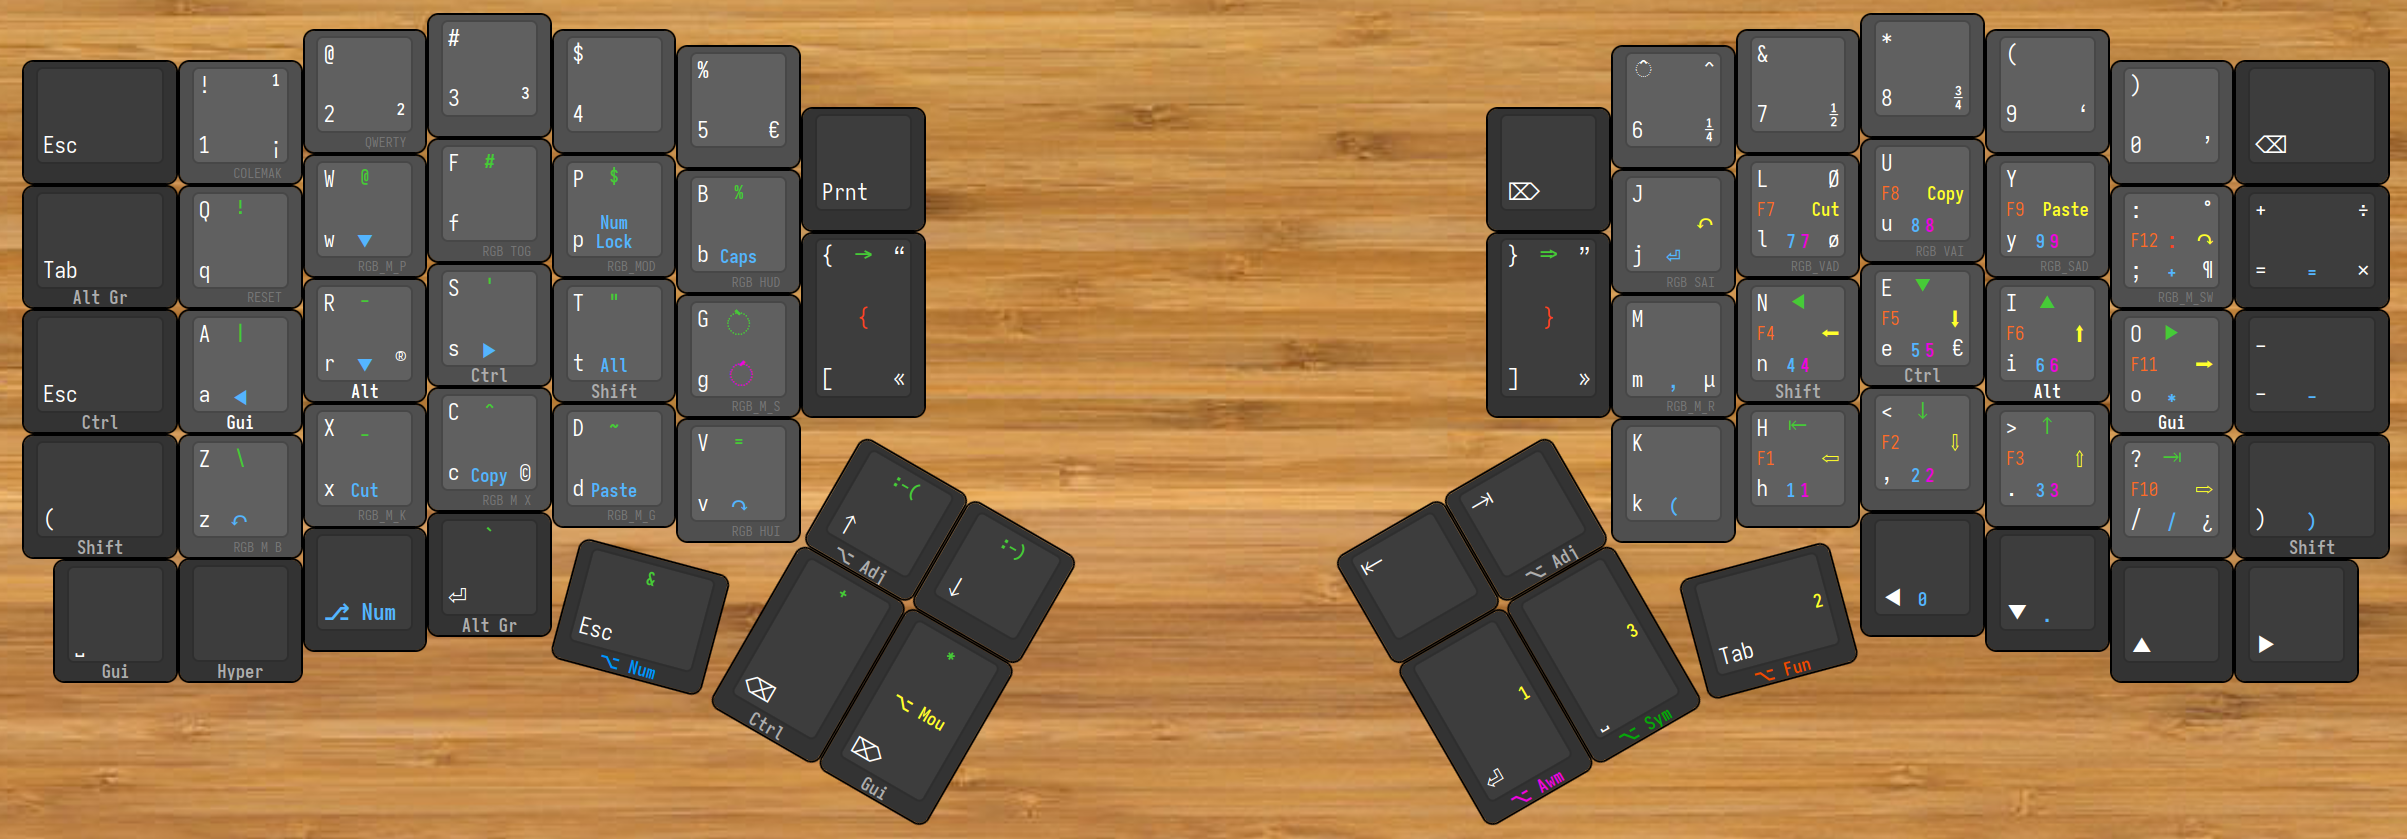
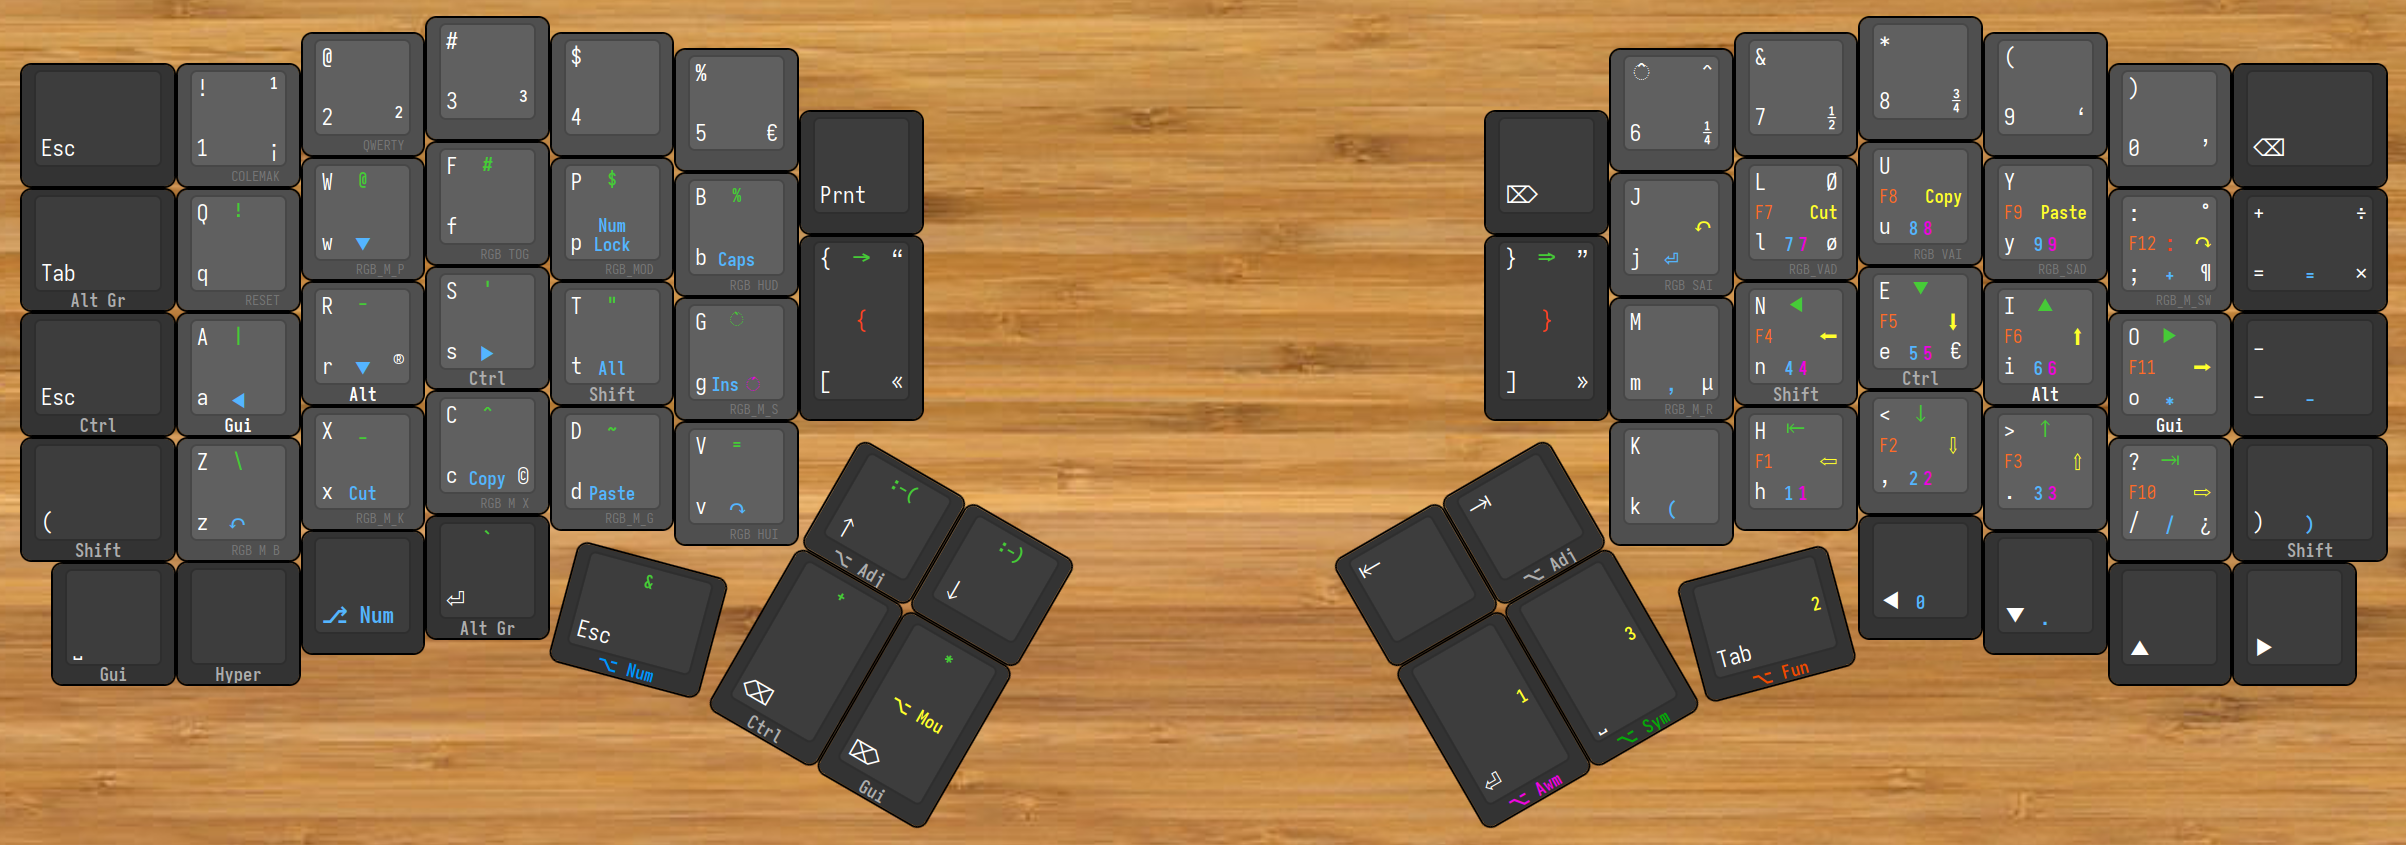
Aligned source code with layout map

diff --git a/keymap.c b/keymap.c
@@ -202,13 +202,13 @@ const uint16_t PROGMEM keymaps[][MATRIX_ROWS][MATRIX_COLS] = {
     //┌────────┬────────┬────────┬────────┬────────┬────────┐                                           ┌────────┬────────┬────────┬────────┬────────┬────────┐
        _______ ,_______ ,_______ ,_______ ,_______ ,_______ ,                                            _______ ,_______ ,_______ ,_______ ,_______ ,_______ ,
     //├────────┼────────┼────────┼────────┼────────┼────────┼────────┐                         ┌────────┼────────┼────────┼────────┼────────┼────────┼────────┤
-       _______ ,KC_EXLM ,KC_AT   ,KC_HASH ,KC_DLR  ,KC_PERC ,_______ ,                          _______ ,ASC_CIRC,KC_AMPR ,KC_ASTR ,KC_PLUS ,_______ ,_______ ,
+       _______ ,KC_EXLM ,KC_AT   ,KC_HASH ,KC_DLR  ,KC_PERC ,_______ ,                          _______ ,_______ ,_______ ,_______ ,_______ ,_______ ,_______ ,
     //├────────┼────────┼────────┼────────┼────────┼────────┼────────┤                         ├────────┼────────┼────────┼────────┼────────┼────────┼────────┤
-       _______ ,KC_PIPE ,KC_PMNS ,ASC_SQT ,ASC_DQT ,KC_GRV  ,ASC_SAR ,                          ASC_DAR ,KC_QUOT ,KC_LEFT ,KC_DOWN ,KC_UP   ,KC_RGHT ,_______ ,
+       _______ ,KC_PIPE ,KC_PMNS ,ASC_SQT ,ASC_DQT ,KC_GRV  ,ASC_SAR ,                          ASC_DAR ,_______ ,KC_LEFT ,KC_DOWN ,KC_UP   ,KC_RGHT ,_______ ,
     //├────────┼────────┼────────┼────────┼────────┼────────┼────────┼────────┐       ┌────────┼────────┼────────┼────────┼────────┼────────┼────────┼────────┤
-       _______ ,KC_BSLS ,KC_UNDS ,KC_COLN ,ASC_TILD,KC_EQL  ,ASC_SAD ,ASC_HAP ,        _______ ,_______ ,ASC_BKT ,KC_HOME ,KC_PGDN ,KC_PGUP ,KC_END  ,_______ ,
+       _______ ,KC_BSLS ,KC_UNDS ,ASC_CIRC,ASC_TILD,KC_EQL  ,ASC_SAD ,ASC_HAP ,        _______ ,_______ ,_______ ,KC_HOME ,KC_PGDN ,KC_PGUP ,KC_END  ,_______ ,
     //├────────┼────────┼────────┼────────┼────┬───┴────┬───┼────────┼────────┤       ├────────┼────────┼───┬────┴───┬────┼────────┼────────┼────────┼────────┤
-       _______ ,_______ ,_______ ,_______ ,     _______ ,    _______ ,_______ ,        _______ ,_______ ,    _______ ,     _______ ,_______ ,_______ ,_______
+       _______ ,_______ ,_______ ,ASC_BKT ,     KC_AMPR ,    KC_PLUS ,KC_ASTR ,        _______ ,_______ ,    _______ ,     _______ ,_______ ,_______ ,_______
     //└────────┴────────┴────────┴────────┘    └────────┘   └────────┴────────┘       └────────┴────────┘   └────────┘    └────────┴────────┴────────┴────────┘
   ),
 
@@ -247,11 +247,11 @@ const uint16_t PROGMEM keymaps[][MATRIX_ROWS][MATRIX_COLS] = {
     //┌────────┬────────┬────────┬────────┬────────┬────────┐                                           ┌────────┬────────┬────────┬────────┬────────┬────────┐
        _______ ,_______ ,_______ ,_______ ,_______ ,_______ ,                                            _______ ,_______ ,_______ ,_______ ,_______ ,_______ ,
     //├────────┼────────┼────────┼────────┼────────┼────────┼────────┐                         ┌────────┼────────┼────────┼────────┼────────┼────────┼────────┤
-       _______ ,_______ ,KC_UP   ,_______ ,KC_NLCK ,KC_CAPS ,_______ ,                          _______ ,_______ ,KC_AW7  ,KC_AW8  ,KC_AW9  ,_______ ,_______ ,
+       _______ ,_______ ,_______ ,_______ ,_______ ,_______ ,_______ ,                          _______ ,_______ ,KC_AW7  ,KC_AW8  ,KC_AW9  ,_______ ,_______ ,
     //├────────┼────────┼────────┼────────┼────────┼────────┼────────┤                         ├────────┼────────┼────────┼────────┼────────┼────────┼────────┤
-       _______ ,KC_LEFT ,KC_DOWN ,KC_RIGHT,U_ALL   ,KC_INS  ,_______ ,                          _______ ,_______ ,KC_AW4  ,KC_AW5  ,KC_AW6  ,_______ ,_______ ,
+       _______ ,_______ ,_______ ,_______ ,_______ ,KC_QUOT ,_______ ,                          _______ ,_______ ,KC_AW4  ,KC_AW5  ,KC_AW6  ,_______ ,_______ ,
     //├────────┼────────┼────────┼────────┼────────┼────────┼────────┼────────┐       ┌────────┼────────┼────────┼────────┼────────┼────────┼────────┼────────┤
-       _______ ,U_UND   ,U_CUT   ,U_CPY   ,U_PST   ,U_RDO   ,_______ ,_______ ,        _______ ,_______ ,_______ ,KC_AW1  ,KC_AW2  ,KC_AW3  ,_______ ,_______ ,
+       _______ ,_______ ,_______ ,_______ ,_______ ,_______ ,_______ ,_______ ,        _______ ,_______ ,_______ ,KC_AW1  ,KC_AW2  ,KC_AW3  ,_______ ,_______ ,
     //├────────┼────────┼────────┼────────┼────┬───┴────┬───┼────────┼────────┤       ├────────┼────────┼───┬────┴───┬────┼────────┼────────┼────────┼────────┤
        _______ ,_______ ,_______ ,_______ ,     _______ ,    _______ ,_______ ,        _______ ,_______ ,    _______ ,     _______ ,_______ ,_______ ,_______
     //└────────┴────────┴────────┴────────┘    └────────┘   └────────┴────────┘       └────────┴────────┘   └────────┘    └────────┴────────┴────────┴────────┘
